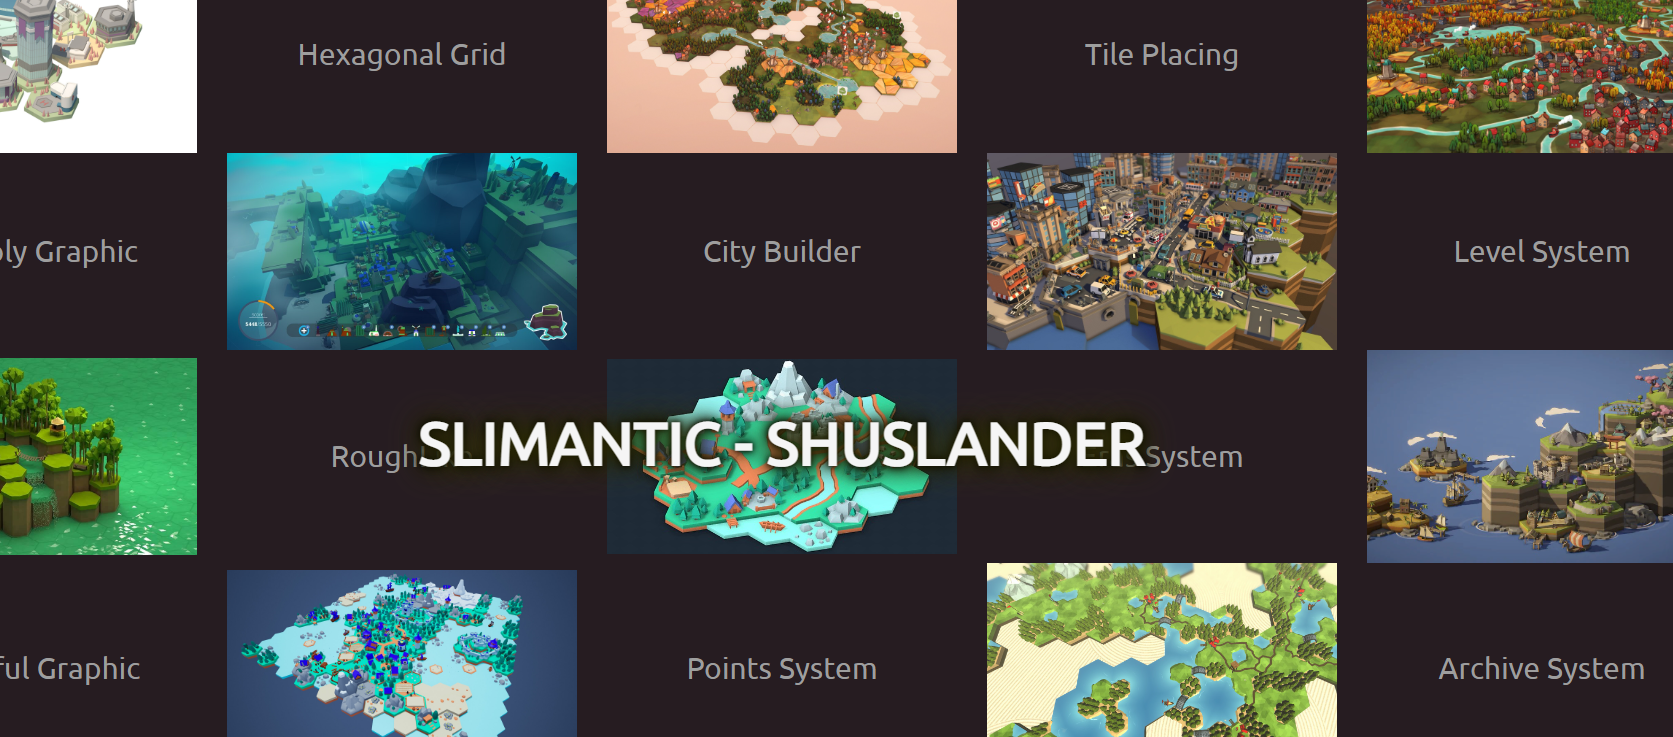
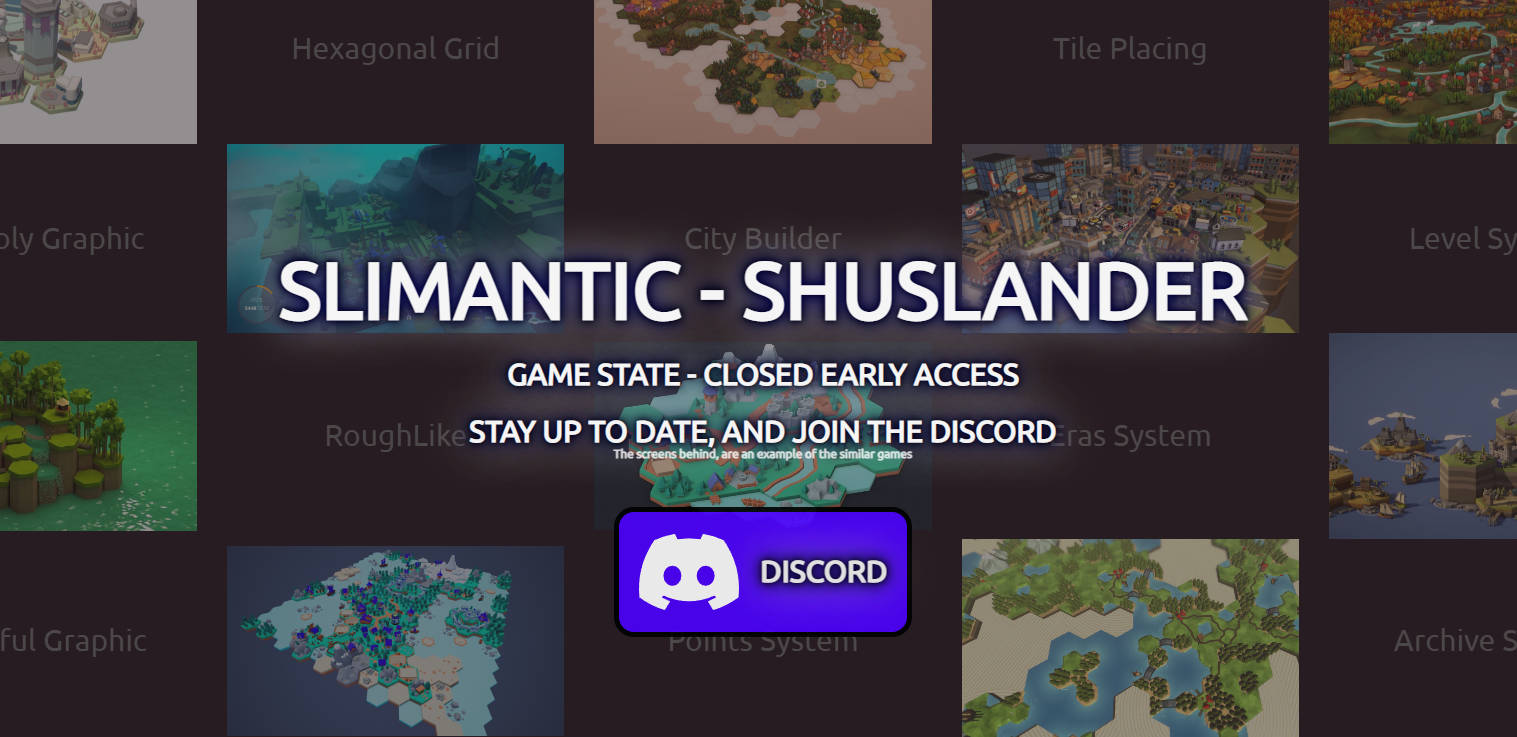
0.11 release
text update
img update
in game media section add

diff --git a/index.html b/index.html
@@ -144,14 +144,30 @@
         <!-- game name placeholder -->
         <div class="text-container">
             <h1>Slimantic - Shuslander</h1>
+            <h2>Game state - Closed Early Access</h2>
+            <h2>Stay up to date, and join The Game Discord</h2>
+            <h3>The screens behind, are an example of the similar games</h3>
+            <a href="https://discord.gg/QCTT8ddhvH" class="">
+                <svg xmlns="http://www.w3.org/2000/svg" width="100" height="100" fill="currentColor" class="bi bi-discord" viewBox="0 0 16 16">
+                    <path d="M13.545 2.907a13.227 13.227 0 0 0-3.257-1.011.05.05 0 0 0-.052.025c-.141.25-.297.577-.406.833a12.19 12.19 0 0 0-3.658 0 8.258 8.258 0 0 0-.412-.833.051.051 0 0 0-.052-.025c-1.125.194-2.22.534-3.257 1.011a.041.041 0 0 0-.021.018C.356 6.024-.213 9.047.066 12.032c.001.014.01.028.021.037a13.276 13.276 0 0 0 3.995 2.02.05.05 0 0 0 .056-.019c.308-.42.582-.863.818-1.329a.05.05 0 0 0-.01-.059.051.051 0 0 0-.018-.011 8.875 8.875 0 0 1-1.248-.595.05.05 0 0 1-.02-.066.051.051 0 0 1 .015-.019c.084-.063.168-.129.248-.195a.05.05 0 0 1 .051-.007c2.619 1.196 5.454 1.196 8.041 0a.052.052 0 0 1 .053.007c.08.066.164.132.248.195a.051.051 0 0 1-.004.085 8.254 8.254 0 0 1-1.249.594.05.05 0 0 0-.03.03.052.052 0 0 0 .003.041c.24.465.515.909.817 1.329a.05.05 0 0 0 .056.019 13.235 13.235 0 0 0 4.001-2.02.049.049 0 0 0 .021-.037c.334-3.451-.559-6.449-2.366-9.106a.034.034 0 0 0-.02-.019Zm-8.198 7.307c-.789 0-1.438-.724-1.438-1.612 0-.889.637-1.613 1.438-1.613.807 0 1.45.73 1.438 1.613 0 .888-.637 1.612-1.438 1.612Zm5.316 0c-.788 0-1.438-.724-1.438-1.612 0-.889.637-1.613 1.438-1.613.807 0 1.451.73 1.438 1.613 0 .888-.631 1.612-1.438 1.612Z"/>
+                </svg>
+                <h2>Discord</h2>
+            </a>
         </div>
          
 
     </section>
 
+    <section class="game-media">
+        <div class="section-changer"></div>
+        <h1>In Game Media:</h1>
+        <h2>No game content yet :/</h2>
+    </section>
 
+    
 
     <section class="cd-horizontal-timeline">
+        <div class="section-changer"></div>
         <h1>DEVELOPMENT TIMELINE</h1>
         <div class="timeline">
             <div class="events-wrapper">
@@ -183,7 +199,7 @@
                     <h2>The Idea</h2>
                     <em>21 February, 2023</em>
                     <p>	
-                        Shu randomly asked me to make a game together - and thats how the journey started.
+                        Shu randomly asked me to make a game together - and that's how the journey started.
                     </p>
                 </li>
     
@@ -192,7 +208,7 @@
                     <h2>1st meeting</h2>
                     <em>2 March, 2023</em>
                     <p>	
-                        After 10 hour of market researching, we had our 1st meeting. We mad a decision in which direction our game will go.
+                        After 10 hour of market researching, we had our 1st meeting. We made a decision in which direction our game will go.
                     </p>
                 </li>
     
@@ -208,8 +224,7 @@
                     <h2>1st working game prototype</h2>
                     <em>16 March, 2023</em>
                     <p>	
-                        Our game had most of basic futures. There is still a lot of work to do with everything, but the very first base is done.
-                    </p>
+                        Our game has most of basic features. There is still a lot of work to do with everything, but the very first base is done.                    </p>
                 </li>
 
                 <li data-date="17/03/2023">
@@ -243,8 +258,7 @@
                     <h2>Our target deadline of demo release</h2>
                     <em>1 July, 2023</em>
                     <p>	
-                        After 1 month of developing, we decited to take the target of 1 July of the deadline to realease working demo at steam.
-                    </p>
+                        After 1 month of developing, we decided to take the target of 1 July of the deadline to release working demo at steam.                    </p>
                 </li>
     
 
@@ -252,6 +266,7 @@
         </div> <!-- .events-content -->
     </section>
     <section class="team">
+        <div class="section-changer"></div>
         <h1>
             Dev Team:
         </h1>
@@ -450,7 +465,7 @@
                     </li>
 
                     <li>
-                        <a href="" class="footer__link">
+                        <a class="footer__link not-ready">
                             <svg xmlns="http://www.w3.org/2000/svg" width="16" height="16" fill="currentColor" class="bi bi-instagram" viewBox="0 0 16 16">
                                 <path d="M8 0C5.829 0 5.556.01 4.703.048 3.85.088 3.269.222 2.76.42a3.917 3.917 0 0 0-1.417.923A3.927 3.927 0 0 0 .42 2.76C.222 3.268.087 3.85.048 4.7.01 5.555 0 5.827 0 8.001c0 2.172.01 2.444.048 3.297.04.852.174 1.433.372 1.942.205.526.478.972.923 1.417.444.445.89.719 1.416.923.51.198 1.09.333 1.942.372C5.555 15.99 5.827 16 8 16s2.444-.01 3.298-.048c.851-.04 1.434-.174 1.943-.372a3.916 3.916 0 0 0 1.416-.923c.445-.445.718-.891.923-1.417.197-.509.332-1.09.372-1.942C15.99 10.445 16 10.173 16 8s-.01-2.445-.048-3.299c-.04-.851-.175-1.433-.372-1.941a3.926 3.926 0 0 0-.923-1.417A3.911 3.911 0 0 0 13.24.42c-.51-.198-1.092-.333-1.943-.372C10.443.01 10.172 0 7.998 0h.003zm-.717 1.442h.718c2.136 0 2.389.007 3.232.046.78.035 1.204.166 1.486.275.373.145.64.319.92.599.28.28.453.546.598.92.11.281.24.705.275 1.485.039.843.047 1.096.047 3.231s-.008 2.389-.047 3.232c-.035.78-.166 1.203-.275 1.485a2.47 2.47 0 0 1-.599.919c-.28.28-.546.453-.92.598-.28.11-.704.24-1.485.276-.843.038-1.096.047-3.232.047s-2.39-.009-3.233-.047c-.78-.036-1.203-.166-1.485-.276a2.478 2.478 0 0 1-.92-.598 2.48 2.48 0 0 1-.6-.92c-.109-.281-.24-.705-.275-1.485-.038-.843-.046-1.096-.046-3.233 0-2.136.008-2.388.046-3.231.036-.78.166-1.204.276-1.486.145-.373.319-.64.599-.92.28-.28.546-.453.92-.598.282-.11.705-.24 1.485-.276.738-.034 1.024-.044 2.515-.045v.002zm4.988 1.328a.96.96 0 1 0 0 1.92.96.96 0 0 0 0-1.92zm-4.27 1.122a4.109 4.109 0 1 0 0 8.217 4.109 4.109 0 0 0 0-8.217zm0 1.441a2.667 2.667 0 1 1 0 5.334 2.667 2.667 0 0 1 0-5.334z"/>
                             </svg>
@@ -459,7 +474,7 @@
                     </li>
 
                     <li>
-                        <a href="" class="footer__link">
+                        <a class="footer__link not-ready">
                             <svg xmlns="http://www.w3.org/2000/svg" width="16" height="16" fill="currentColor" class="bi bi-facebook" viewBox="0 0 16 16">
                                 <path d="M16 8.049c0-4.446-3.582-8.05-8-8.05C3.58 0-.002 3.603-.002 8.05c0 4.017 2.926 7.347 6.75 7.951v-5.625h-2.03V8.05H6.75V6.275c0-2.017 1.195-3.131 3.022-3.131.876 0 1.791.157 1.791.157v1.98h-1.009c-.993 0-1.303.621-1.303 1.258v1.51h2.218l-.354 2.326H9.25V16c3.824-.604 6.75-3.934 6.75-7.951z"/>
                             </svg>
@@ -468,7 +483,7 @@
                     </li>
 
                     <li>
-                        <a href="" class="footer__link">
+                        <a  class="footer__link not-ready">
                             <svg xmlns="http://www.w3.org/2000/svg" width="16" height="16" fill="currentColor" class="bi bi-steam" viewBox="0 0 16 16">
                                 <path d="M.329 10.333A8.01 8.01 0 0 0 7.99 16C12.414 16 16 12.418 16 8s-3.586-8-8.009-8A8.006 8.006 0 0 0 0 7.468l.003.006 4.304 1.769A2.198 2.198 0 0 1 5.62 8.88l1.96-2.844-.001-.04a3.046 3.046 0 0 1 3.042-3.043 3.046 3.046 0 0 1 3.042 3.043 3.047 3.047 0 0 1-3.111 3.044l-2.804 2a2.223 2.223 0 0 1-3.075 2.11 2.217 2.217 0 0 1-1.312-1.568L.33 10.333Z"/>
                                 <path d="M4.868 12.683a1.715 1.715 0 0 0 1.318-3.165 1.705 1.705 0 0 0-1.263-.02l1.023.424a1.261 1.261 0 1 1-.97 2.33l-.99-.41a1.7 1.7 0 0 0 .882.84Zm3.726-6.687a2.03 2.03 0 0 0 2.027 2.029 2.03 2.03 0 0 0 2.027-2.029 2.03 2.03 0 0 0-2.027-2.027 2.03 2.03 0 0 0-2.027 2.027Zm2.03-1.527a1.524 1.524 0 1 1-.002 3.048 1.524 1.524 0 0 1 .002-3.048Z"/>
@@ -477,7 +492,7 @@
                         </a>
                     </li>   
                     <li>
-                        <a href="" class="footer__link">
+                        <a class="footer__link not-ready">
                             <svg xmlns="http://www.w3.org/2000/svg" width="16" height="16" fill="currentColor" class="bi bi-twitter" viewBox="0 0 16 16">
                                 <path d="M5.026 15c6.038 0 9.341-5.003 9.341-9.334 0-.14 0-.282-.006-.422A6.685 6.685 0 0 0 16 3.542a6.658 6.658 0 0 1-1.889.518 3.301 3.301 0 0 0 1.447-1.817 6.533 6.533 0 0 1-2.087.793A3.286 3.286 0 0 0 7.875 6.03a9.325 9.325 0 0 1-6.767-3.429 3.289 3.289 0 0 0 1.018 4.382A3.323 3.323 0 0 1 .64 6.575v.045a3.288 3.288 0 0 0 2.632 3.218 3.203 3.203 0 0 1-.865.115 3.23 3.23 0 0 1-.614-.057 3.283 3.283 0 0 0 3.067 2.277A6.588 6.588 0 0 1 .78 13.58a6.32 6.32 0 0 1-.78-.045A9.344 9.344 0 0 0 5.026 15z"/>
                             </svg>

diff --git a/style.css b/style.css
@@ -1,7 +1,7 @@
 @import url('https://fonts.googleapis.com/css?family=Ubuntu');
 
 body {
-    height: 100vh;
+    height: fit-content;
     padding: 0;
     margin: 0;
     border: 0;
@@ -74,7 +74,8 @@ Main Components
   justify-content: center;
   align-items: center;
   font-size: 3rem;
-  color: rgb(158, 158, 158);
+  color: rgb(114, 114, 114);
+  opacity: 0.5;
 }
 .graphic-container .grid-box img {
   width: 100%;
@@ -83,24 +84,85 @@ Main Components
 
 .text-container {
   position: relative;
-
+  display: flex;
+  flex-direction: column;
+  align-items: center;
+  justify-content: center;
 }
 
-.main h1 {
-  margin: 0 0 0 0 ;
+
+h1 {
+  text-shadow: 0px 0px 23px rgba(4, 0, 255, 0.43),
+  0px 0px 5px black,
+  0px 0px 10px black,
+  0px 0px 15px black,
+  0px 0px 25px black,
+  0px 0px 45px rgb(255, 255, 255);
+}
+
+.main h1, .main h2 {
+  margin: 0 0 2vh 0 ;
   text-align: center;
-  font-size: 6rem;
+  font-size: 8rem;
   color: whitesmoke;
-  text-shadow: 0px 0px 33px rgba(206,201,10,0.43),
-                0px 0px 5px black,
-                0px 0px 10px black,
-                0px 0px 15px black,
-                0px 0px 25px black,
-                0px 0px 35px black;
+  
   text-transform: uppercase;
 }
 
+.text-container > h2 {
+  font-size: 3rem;
+  text-shadow: 0px 0px 23px rgba(255, 0, 0, 0.43),
+  0px 0px 5px rgb(255, 0, 0),
+  0px 0px 10px rgb(255, 0, 0),
+  0px 0px 15px black,
+  0px 0px 25px black,
+  0px 0px 45px rgb(255, 255, 255);
+}
 
+.text-container h3 {
+  position: relative;
+  bottom: 3rem;
+  opacity: 0.8;
+}
+.text-container a {
+  display: flex;
+  align-items: center;
+  border: black 5px solid;
+  border-radius: 20px;
+  padding: 10px 20px;
+  background-color: rgb(76, 0, 255);
+  opacity: 0.9;
+}
+
+.text-container a:hover {
+  scale: 1.1;
+}
+
+.text-container a h2 {
+  padding: 0 0 0 2vh;
+  margin: 0;
+  font-size: 5rem;
+}
+
+
+.section-changer {
+  position: relative;
+  height: 1px;
+  width: auto;
+  margin: 2vh 10vw;
+  background-color: gray;
+  width: 80vw;
+}
+
+
+
+
+.game-media {
+  display: flex;
+  flex-direction: column;
+  align-items: center;
+  justify-content: center;
+}
 
 
 
@@ -263,7 +325,7 @@ h1 {
 }
 @media only screen and (min-width: 1100px) {
   .cd-horizontal-timeline {
-    margin: 6em auto;
+    margin: 2em auto;
   }
   .cd-horizontal-timeline::before {
     /* never visible - this is used in jQuery to check the current MQ */
@@ -769,11 +831,11 @@ footer .content span {
   display: inline-block;
 }
 
-.footer__link:hover:after {
+.footer__link:not(.not-ready):hover:after {
     width: 100%;
 }
 
-.footer__link:after {
+.footer__link:not(.not-ready):after {
     content: '';
     display: block;
     margin: auto;
@@ -869,3 +931,8 @@ footer .content span {
   }
 }
 
+.not-ready {
+  color: gray;
+  text-decoration: none;
+  cursor: not-allowed;
+}
